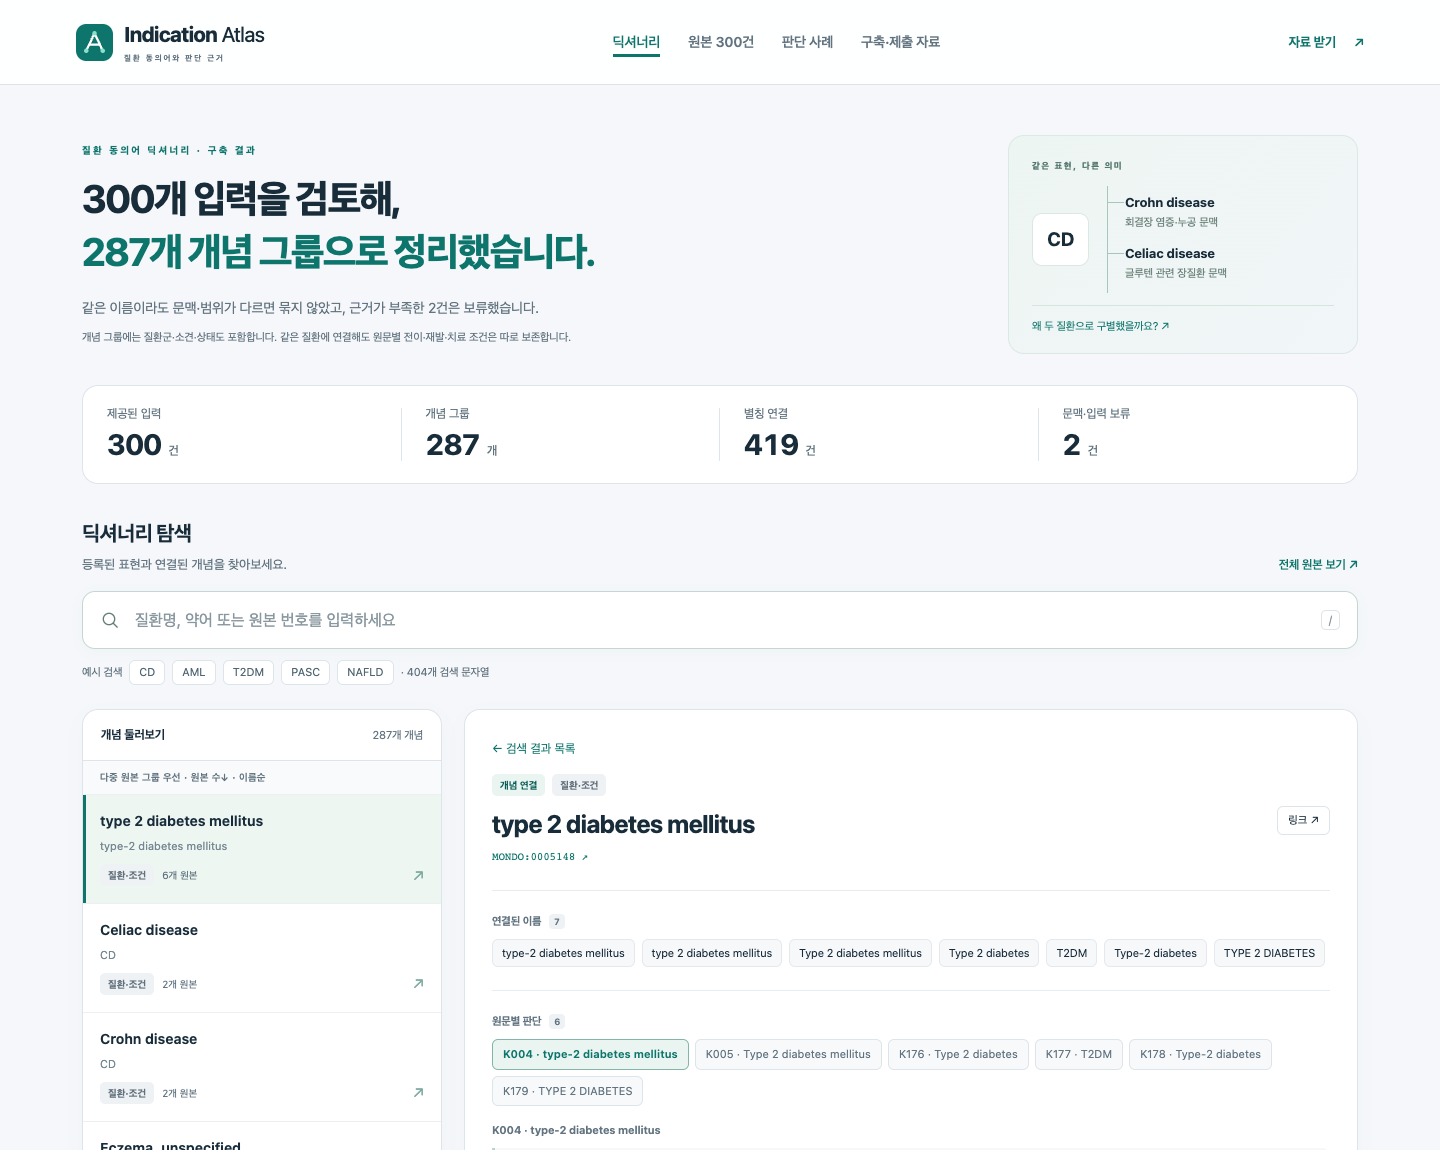
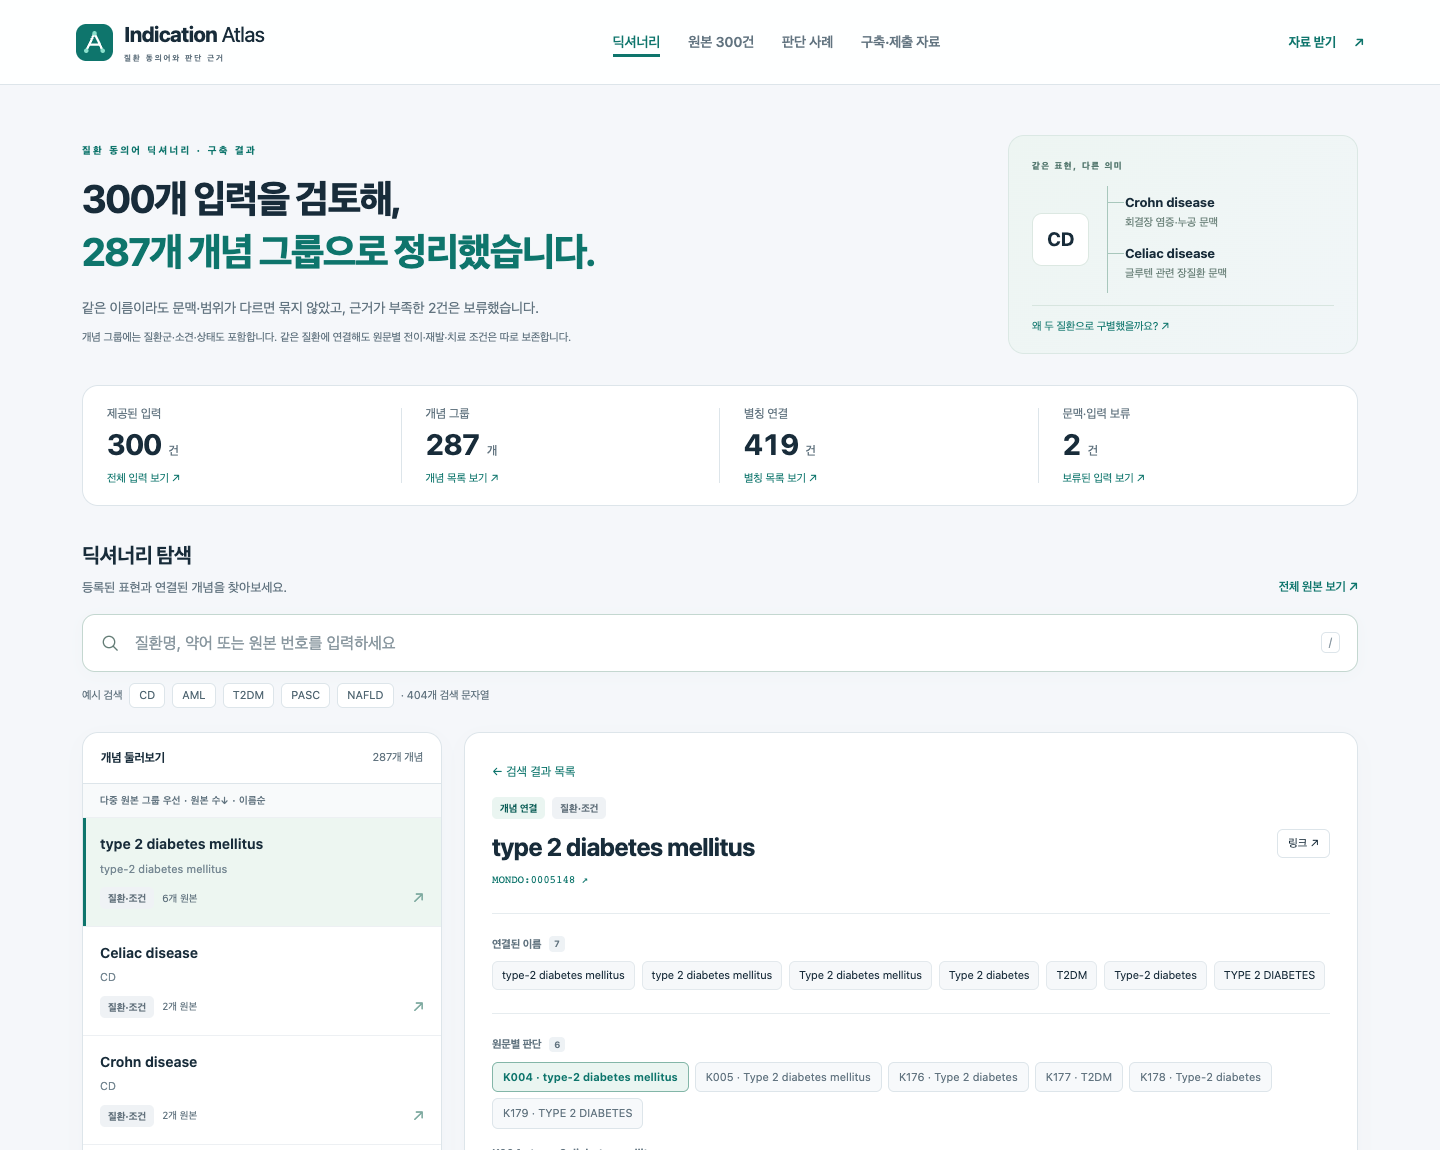
Make dictionary summary counts link to browsable results

diff --git a/app/app.js b/app/app.js
@@ -15,7 +15,7 @@ const scopeLabels = {
   PULMONARY_EMPHYSEMA:'폐기종의 의미를 적용합니다. 피하 등 비폐성 위치를 명시한 문맥에는 적용하지 않습니다.',
   MYELOFIBROSIS_UNSPECIFIED_CAUSE:'원인 미지정 골수 섬유화의 범위를 유지합니다. MPN 또는 특정 약물의 적응증 문맥이 있으면 그 제한을 별도로 검토합니다.'
 };
-let data, conceptByKey, recordById, route, searchPage=0, recordPage=0, selectedKey=null;
+let data, conceptByKey, recordById, route, searchPage=0, recordPage=0, aliasPage=0, selectedKey=null;
 const detailCache=new Map(), docCache=new Map();
 const pageSize=9, rowPageSize=25;
 
@@ -74,9 +74,9 @@ function dictionaryPage() {
     <section class="hero" aria-labelledby="hero-title"><div><p class="eyebrow">질환 동의어 딕셔너리 · 구축 결과</p><h1 id="hero-title">${m.records}개 입력을 검토해,<br><span>${m.concepts}개 개념 그룹으로 정리했습니다.</span></h1><p class="hero-copy">같은 이름이라도 문맥·범위가 다르면 묶지 않았고, 근거가 부족한 ${m.holds}건은 보류했습니다.</p><p class="source-note">개념 그룹에는 질환군·소견·상태도 포함합니다. 같은 질환에 연결해도 원문별 전이·재발·치료 조건은 따로 보존합니다.</p></div>
     <div class="hero-example"><p class="eyebrow">같은 표현, 다른 의미</p><div class="mini-flow"><div class="mini-term">CD</div><div class="mini-branches"><div class="mini-branch"><b>Crohn disease</b><small>회결장 염증·누공 문맥</small></div><div class="mini-branch"><b>Celiac disease</b><small>글루텐 관련 장질환 문맥</small></div></div></div><a href="#cases/cd">왜 두 질환으로 구별했을까요? ↗</a></div></section>
     <div class="stats" aria-label="딕셔너리 요약">
-      ${[['제공된 입력',m.records,'건'],['개념 그룹',m.concepts,'개'],['별칭 연결',m.aliases,'건'],['문맥·입력 보류',m.holds,'건']].map(([label,n,u])=>`<div class="stat"><span class="stat-label">${label}</span><span class="stat-value">${n}<small>${u}</small></span></div>`).join('')}
+      ${[['제공된 입력',m.records,'건','#records','전체 입력 보기'],['개념 그룹',m.concepts,'개','#dictionary?view=concepts','개념 목록 보기'],['별칭 연결',m.aliases,'건','#aliases','별칭 목록 보기'],['문맥·입력 보류',m.holds,'건','#records?decision=HOLD','보류된 입력 보기']].map(([label,n,u,href,action])=>`<a class="stat" href="${href}"${href.includes('view=concepts')?' data-concept-list':''} aria-label="${label} ${n}${u} · ${action}"><span class="stat-label">${label}</span><span class="stat-value">${n}<small>${u}</small></span><span class="stat-action">${action} <span aria-hidden="true">↗</span></span></a>`).join('')}
     </div>
-    <section aria-labelledby="search-heading"><div class="section-heading"><div><h2 id="search-heading">딕셔너리 탐색</h2><p>등록된 표현과 연결된 개념을 찾아보세요.</p></div><a href="#records">전체 원본 보기 ↗</a></div>
+    <section id="concept-explorer" aria-labelledby="search-heading"><div class="section-heading"><div><h2 id="search-heading" tabindex="-1">딕셔너리 탐색</h2><p>등록된 표현과 연결된 개념을 찾아보세요.</p></div><a href="#records">전체 원본 보기 ↗</a></div>
     <label class="search-box">${icon}<input id="dictionary-search" type="search" autocomplete="off" aria-label="질환명·약어·원본 번호 검색" placeholder="질환명, 약어 또는 원본 번호를 입력하세요"><span class="search-key" aria-hidden="true">/</span></label>
     <div class="examples"><span>예시 검색</span>${['CD','AML','T2DM','PASC','NAFLD'].map(q=>`<button class="example-chip" data-query="${q}">${q}</button>`).join('')}<span>· ${m.unique_alias_spellings}개 검색 문자열</span></div>
     <div class="explorer"><div id="results" class="panel result-panel"></div><div id="dictionary-detail" class="panel detail"></div></div></section>
@@ -218,6 +218,27 @@ function updateRecords() {
   $('#record-table').innerHTML=`<div class="table-caption"><span id="record-count">${rows.length} / ${data.records.length}건</span><a href="./downloads/judgments.csv" download>전체 CSV 내려받기 ↓</a></div><div class="table-wrap"><table class="record-table"><thead><tr><th>원본 번호</th><th>입력 표현</th><th>선택한 개념</th><th>처리 상태</th><th>판단 요약</th></tr></thead><tbody>${rows.slice(recordPage*rowPageSize,(recordPage+1)*rowPageSize).map(r=>`<tr data-open-record="${r.source_id}"><td><button class="subtle-button" data-open-record="${r.source_id}" aria-label="${r.source_id} 판단 상세 보기">${r.source_id}</button></td><td class="keyword-cell">${esc(r.keyword)}</td><td>${esc(r.standard_name || '단일 개념 연결 보류')}</td><td>${decisionBadge(r)}</td><td class="reason-cell"><span class="truncate">${esc(r.rationale_ko)}</span></td></tr>`).join('') || '<tr><td colspan="5"><div class="empty-state">조건에 맞는 원본이 없습니다. 검색어나 필터를 바꿔 보세요.</div></td></tr>'}</tbody></table></div><div class="pager"><button data-record-page="-1" ${recordPage===0?'disabled':''}>← 이전</button><span>${recordPage+1} / ${pages}</span><button data-record-page="1" ${recordPage>=pages-1?'disabled':''}>다음 →</button></div>`;
 }
 
+function aliasesPage() {
+  $('#main-content').innerHTML=`<div class="container">${heading('표현과 개념의 연결','별칭 연결 목록',`${data.metadata.aliases}개 연결을 확인할 수 있습니다. 고유 검색 문자열은 ${data.metadata.unique_alias_spellings}개이며, 같은 표현도 원본이나 개념이 다르면 별도 연결로 기록합니다.`)}
+    <a class="back-link" href="#dictionary">← 딕셔너리로 돌아가기</a>
+    <label class="search-box">${icon}<input id="alias-search" type="search" placeholder="별칭·개념명·원본 번호 검색" aria-label="별칭 연결 검색"></label>
+    <div id="alias-table" class="panel section-space"></div></div>`;
+  const input=$('#alias-search');input.value=route.params.get('q') ?? '';aliasPage=0;
+  input.addEventListener('input',()=>{
+    aliasPage=0;history.replaceState(null,'',pathFor('aliases',{q:input.value}));route=readRoute();updateAliases();
+  });
+  updateAliases();
+}
+
+function updateAliases() {
+  const q=normalize($('#alias-search').value);
+  const rows=data.aliases.filter(a=>!q || [a.term,a.source_id,conceptByKey.get(a.concept_key)?.preferred_name ?? ''].some(value=>normalize(value).includes(q)));
+  const pages=Math.max(1,Math.ceil(rows.length/rowPageSize));aliasPage=Math.min(aliasPage,pages-1);
+  $('#alias-table').innerHTML=`<div class="table-caption"><span id="alias-count">${rows.length} / ${data.aliases.length}건</span><a href="./downloads/aliases.csv" download>전체 별칭 CSV 내려받기 ↓</a></div>
+    <p class="alias-scroll-note">표를 좌우로 밀면 연결한 개념과 근거 원본을 확인할 수 있습니다.</p><div class="table-wrap" tabindex="0" role="region" aria-label="별칭 연결 표 · 좌우 스크롤 가능"><table class="alias-table"><thead><tr><th>등록된 표현</th><th>연결한 개념</th><th>근거 원본</th><th>적용 조건</th></tr></thead><tbody>${rows.slice(aliasPage*rowPageSize,(aliasPage+1)*rowPageSize).map(a=>`<tr><td><strong>${esc(a.term)}</strong><br><span class="source-note">${esc(kindLabels[a.kind] ?? a.kind)}</span></td><td><a class="source-link" href="${esc(pathFor('dictionary',{concept:a.concept_key,record:a.source_id}))}">${esc(conceptByKey.get(a.concept_key)?.preferred_name ?? a.concept_key)} ↗</a></td><td><a class="source-link" href="${esc(pathFor('records',{record:a.source_id}))}">${esc(a.source_id)} · 판단 근거 ↗</a></td><td>${a.context_required?badge('문맥 확인 필요','amber'):badge('검토한 개념 연결','gray')}</td></tr>`).join('') || '<tr><td colspan="4"><div class="empty-state">일치하는 별칭 연결이 없습니다. 다른 표현으로 검색해 보세요.</div></td></tr>'}</tbody></table></div>
+    <div class="pager"><button data-alias-page="-1" ${aliasPage===0?'disabled':''} aria-label="이전 별칭 목록">← 이전</button><span>${aliasPage+1} / ${pages}</span><button data-alias-page="1" ${aliasPage>=pages-1?'disabled':''} aria-label="다음 별칭 목록">다음 →</button></div>`;
+}
+
 function casesPage() {
   const story=data.stories.find(s=>s.id===route.sub);
   if(!story) {
@@ -254,12 +275,13 @@ async function materialsPage() {
 function render() {
   route=readRoute();
   document.querySelectorAll('[data-nav]').forEach(a=>{
-    const active=a.dataset.nav===route.page;a.classList.toggle('active',active);
+    const active=a.dataset.nav===(route.page==='aliases'?'dictionary':route.page);a.classList.toggle('active',active);
     if(active)a.setAttribute('aria-current','page');else a.removeAttribute('aria-current');
   });
-  const titles={dictionary:'딕셔너리',records:'원본 300건',cases:'판단 사례',materials:'구축·제출 자료'};
+  const titles={dictionary:'딕셔너리',aliases:'별칭 연결',records:'원본 300건',cases:'판단 사례',materials:'구축·제출 자료'};
   document.title=`${titles[route.page] ?? '딕셔너리'} | Indication Atlas`;
   if(route.page==='records')recordsPage();
+  else if(route.page==='aliases')aliasesPage();
   else if(route.page==='cases')casesPage();
   else if(route.page==='materials')materialsPage();
   else dictionaryPage();
@@ -275,12 +297,16 @@ document.addEventListener('click', async event=>{
   if(d.selectRecord) { navigate(route.page,{...currentParams(),concept:d.ownerConcept,record:d.selectRecord}); return; }
   if(d.searchPage) { searchPage+=Number(d.searchPage);updateSearch();return; }
   if(d.recordPage) { recordPage+=Number(d.recordPage);updateRecords();return; }
+  if(d.aliasPage) { aliasPage+=Number(d.aliasPage);updateAliases();return; }
   if('recordsBack' in d) { const p=currentParams();delete p.record;delete p.concept;navigate('records',p);return; }
   if('resultsBack' in d) { selectedKey=null; const q=$('#dictionary-search').value; history.replaceState(null,'',pathFor('dictionary',{q}));route=readRoute();updateSearch({autoSelect:false});$('#results').scrollIntoView({block:'start'});return; }
   if('copyLink' in d) { try { await navigator.clipboard.writeText(location.href);toast('현재 판단의 주소를 복사했습니다.'); } catch { toast('주소창의 링크를 복사해 주세요.'); } return; }
   if(d.retryCandidate)loadCandidates(d.retryCandidate);
 });
 document.addEventListener('click',event=>{
+  if(event.target.closest('[data-concept-list]') && route.page==='dictionary' && route.params.get('view')==='concepts') {
+    event.preventDefault();$('#search-heading').focus({preventScroll:true});$('#concept-explorer').scrollIntoView({block:'start',behavior:'instant'});return;
+  }
   if(event.target.closest('.skip-link')) {
     event.preventDefault();$('#main-content').focus();$('#main-content').scrollIntoView({block:'start'});return;
   }
@@ -290,13 +316,16 @@ document.addEventListener('click',event=>{
 });
 document.addEventListener('keydown',event=>{
   if(event.key==='/' && !['INPUT','TEXTAREA','SELECT'].includes(document.activeElement?.tagName)) {
-    const input=$('#dictionary-search') ?? $('#record-search');
+    const input=$('#dictionary-search') ?? $('#record-search') ?? $('#alias-search');
     if(input) { event.preventDefault();input.focus(); }
   }
 });
 window.addEventListener('hashchange',()=>{
   const previous=route, next=readRoute(), scrollY=window.scrollY;
   render();
+  if(next.page==='dictionary' && next.params.get('view')==='concepts') {
+    $('#search-heading').focus({preventScroll:true});$('#concept-explorer').scrollIntoView({block:'start',behavior:'instant'});return;
+  }
   if(previous?.page==='dictionary' && next.page==='dictionary') {
     if(window.innerWidth<=760 && selectedKey)$('#dictionary-detail').scrollIntoView({block:'start',behavior:'instant'});
     else window.scrollTo({top:scrollY,behavior:'instant'});
@@ -311,6 +340,9 @@ try {
   recordById=new Map(data.records.map(r=>[r.source_id,r]));
   $('#data-version').textContent=`자료 기준 ${data.metadata.as_of} · v${data.metadata.dataset_version}`;
   render();
+  if(route.page==='dictionary' && route.params.get('view')==='concepts') {
+    $('#search-heading').focus({preventScroll:true});$('#concept-explorer').scrollIntoView({block:'start',behavior:'instant'});
+  }
 } catch {
   $('#main-content').innerHTML='<div class="container"><div class="empty-state"><h1>데이터를 불러오지 못했습니다.</h1><p>인터넷 연결을 확인한 뒤 새로고침해 주세요.</p><p>로컬 실행 시에는 README의 웹 서버 실행 방법을 사용해 주세요.</p><a href="./downloads/judgments.csv">전체 판단표 내려받기 ↓</a></div></div>';
 }

diff --git a/app/styles.css b/app/styles.css
@@ -48,7 +48,11 @@ h1 { font-size:39px; line-height:1.36; letter-spacing:-1.65px; margin:0 0 17px; 
 .mini-branch small { display:block; color:#698078; font-size:11px; }
 .hero-example a { font-size:11px; margin-top:12px; display:block; padding-top:11px; border-top:1px solid #d7e5df; }
 .stats { display:grid; grid-template-columns:repeat(4,1fr); border:1px solid var(--line); border-radius:var(--radius); background:white; margin-bottom:34px; }
-.stat { padding:18px 24px; position:relative; }
+.stat { padding:18px 24px; position:relative; color:var(--ink); transition:background .15s; }
+.stat:hover { background:var(--tint); text-decoration:none; }
+.stat:first-child { border-radius:var(--radius) 0 0 var(--radius); }
+.stat:last-child { border-radius:0 var(--radius) var(--radius) 0; }
+.stat-action { display:block; color:var(--accent); font-size:11px; margin-top:4px; }
 .stat:not(:last-child):after { content:""; position:absolute; right:0; top:22px; bottom:22px; border-right:1px solid var(--line); }
 .stat-label { color:var(--muted); font-size:12px; display:block; }
 .stat-value { font-size:29px; font-weight:700; letter-spacing:-1px; line-height:1.4; font-variant-numeric:tabular-nums; }
@@ -223,7 +227,7 @@ tbody tr { background:white; }
   .main-nav a { font-size:12px; padding:0 4px; }
   .container { padding:0 19px; } .hero { grid-template-columns:1fr; padding-top:32px; gap:22px; }
   .hero h1 { font-size:31px; } .hero-copy { font-size:13px; } .hero-example { display:none; }
-  .stats { margin-bottom:28px; } .stat { padding:13px 10px; } .stat-label { font-size:10px; } .stat-value { font-size:23px; } .stat-value small { display:none; }
+  .stats { margin-bottom:28px; } .stat { padding:13px 10px; } .stat-label { font-size:10px; } .stat-value { font-size:23px; } .stat-value small { display:none; } .stat-action { font-size:9px; }
   .stat:not(:last-child):after { top:16px; bottom:16px; }
   .section-heading { align-items:center; } h2 { font-size:19px; } .section-heading p { font-size:11px; }
   .search-box { padding:0 12px; } .search-box input { font-size:14px; height:52px; } .search-key { display:none; }
@@ -253,3 +257,10 @@ summary>.badge { flex-shrink:0; }
 .legacy-experiment { margin-top:28px; background:#fafbfc; }
 .legacy-experiment>summary { font-weight:700; font-size:14px; }
 .legacy-content { padding:0 20px 20px; }
+
+.alias-table { min-width:680px; }
+.alias-table td:first-child { width:30%; }
+.alias-table td:nth-child(2) { width:35%; }
+.alias-table td:nth-child(3) { white-space:nowrap; }
+.alias-scroll-note { display:none; }
+@media(max-width:760px) { .alias-scroll-note { display:block; padding:0 16px; color:var(--muted); font-size:10px; } }

diff --git a/tests/browser_smoke.py b/tests/browser_smoke.py
@@ -31,6 +31,38 @@ def run(base_url,browser_executable=None,output=None):
         page.keyboard.press('Enter')
         expect(page.locator('#main-content')).to_be_focused()
         results.append('Keyboard skip navigation stays on the intended route')
+        page.locator('.stat[href="#records"]').click()
+        expect(page.locator('#record-count')).to_have_text('300 / 300건')
+        page.get_by_role('link',name='딕셔너리',exact=True).click()
+        page.locator('.stat[href="#records?decision=HOLD"]').click()
+        expect(page.locator('#record-count')).to_have_text('2 / 300건')
+        expect(page.locator('#record-table tbody tr')).to_have_count(2)
+        page.get_by_role('button',name='K009 판단 상세 보기').click()
+        expect(page.locator('.detail')).to_contain_text('문맥 부족')
+        page.get_by_role('button',name='← 원본 300건 목록').click()
+        expect(page.locator('#record-count')).to_have_text('2 / 300건')
+        page.get_by_role('link',name='딕셔너리',exact=True).click()
+        page.locator('[data-concept-list]').click()
+        expect(page.locator('#search-heading')).to_be_focused()
+        assert 80 <= page.locator('#search-heading').bounding_box()['y'] <= 180
+        page.locator('[data-concept-list]').click()
+        expect(page.locator('#search-heading')).to_be_focused()
+        page.locator('.stat[href="#aliases"]').click()
+        expect(page.locator('#alias-count')).to_have_text('419 / 419건')
+        expect(page.locator('#alias-table tbody tr')).to_have_count(25)
+        first_row=page.locator('#alias-table tbody tr').first.inner_text()
+        page.get_by_role('button',name='다음 별칭 목록').click()
+        assert page.locator('#alias-table tbody tr').first.inner_text()!=first_row
+        page.locator('#alias-search').fill('T2DM')
+        expect(page.locator('#alias-count')).to_have_text('1 / 419건')
+        page.locator('#alias-table a[href^="#dictionary"]').click()
+        expect(page.locator('#dictionary-detail')).to_contain_text('type 2 diabetes mellitus')
+        page.go_back(wait_until='networkidle')
+        expect(page.locator('#alias-search')).to_have_value('T2DM')
+        page.locator('#alias-table a[href^="#records"]').click()
+        expect(page.locator('.detail')).to_contain_text('T2DM')
+        page.get_by_role('link',name='딕셔너리',exact=True).click()
+        results.append('All summary links, two held rows, alias pagination/search and cited detail navigation')
         if output:page.screenshot(path=str(output/'desktop.png'),full_page=True)
         page.locator('#dictionary-search').fill('CD')
         expect(page.locator('#results')).to_contain_text('문맥 확인이 필요합니다')
@@ -102,10 +134,13 @@ def run(base_url,browser_executable=None,output=None):
         assert not normalization_errors,normalization_errors
         results.append('Browser normalization equals all reviewed alias keys')
         page.set_viewport_size({'width':390,'height':844})
-        for route in ['#dictionary','#records','#cases','#cases/cd','#materials/guidelines','#materials/research','#materials/methodology','#materials/downloads']:
+        for route in ['#dictionary','#records','#cases','#cases/cd','#materials/guidelines','#materials/research','#materials/methodology','#materials/downloads','#aliases']:
             page.goto(base_url+route,wait_until='networkidle')
             assert page.evaluate('document.documentElement.scrollWidth <= window.innerWidth'),route
         page.goto(base_url+'#dictionary',wait_until='networkidle')
+        page.locator('[data-concept-list]').click()
+        expect(page.locator('#search-heading')).to_be_focused()
+        assert 100 <= page.locator('#search-heading').bounding_box()['y'] <= 190
         page.locator('#dictionary-search').fill('CD')
         page.locator('#results [data-concept="MONDO:0005011"]').click()
         expect(page.locator('#dictionary-detail')).to_contain_text('Crohn disease')

diff --git a/docs/RUN.md b/docs/RUN.md
@@ -2,7 +2,7 @@
 
 ## 웹에서 확인하는 순서
 
-1. 딕셔너리에서 CD·T2DM·PASC·NAFLD를 검색한다.
+1. 딕셔너리의 요약 숫자를 눌러 전체 입력·개념 목록·별칭 연결·보류 목록을 확인하거나 CD·T2DM·PASC·NAFLD를 검색한다.
 2. 개념을 선택하고 원문별 판단·후보 정의·공식 출처를 확인한다.
 3. 원본 300건에서 보류·자체 개념 등을 필터한다.
 4. 판단 사례에서 같은 개념과 다른 범위의 구별을 살펴본다.
